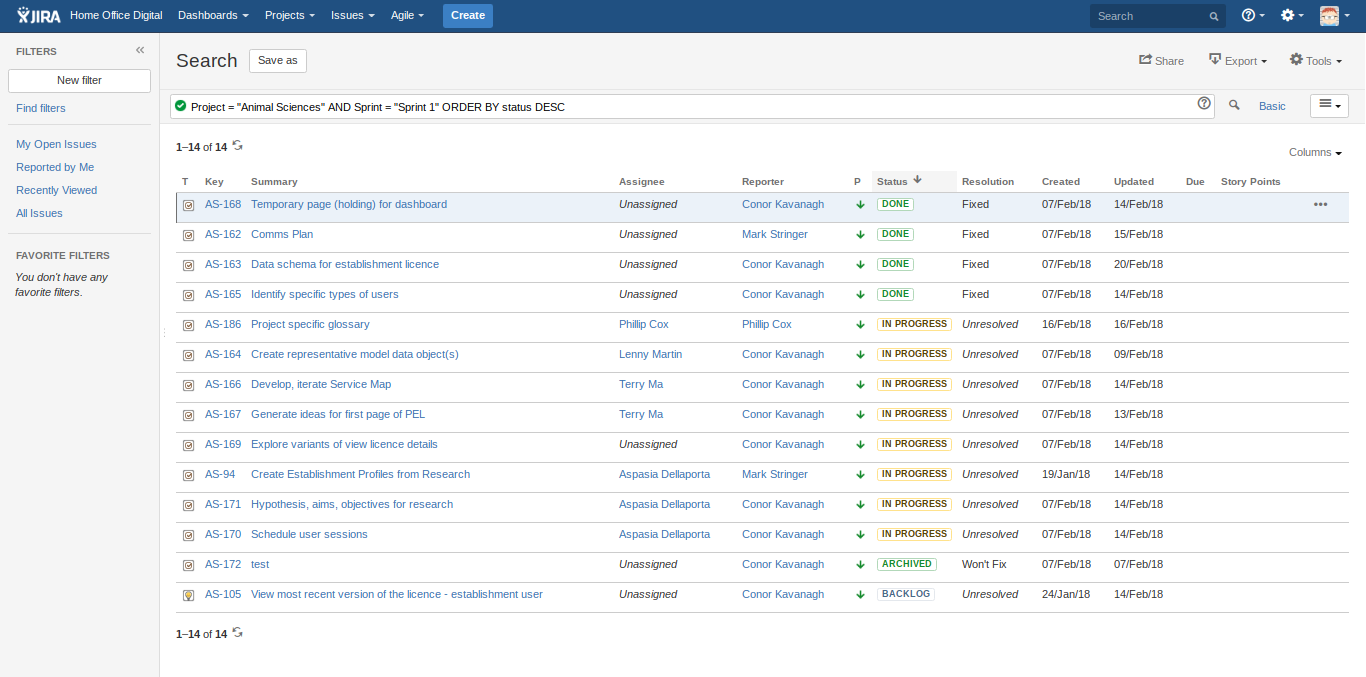
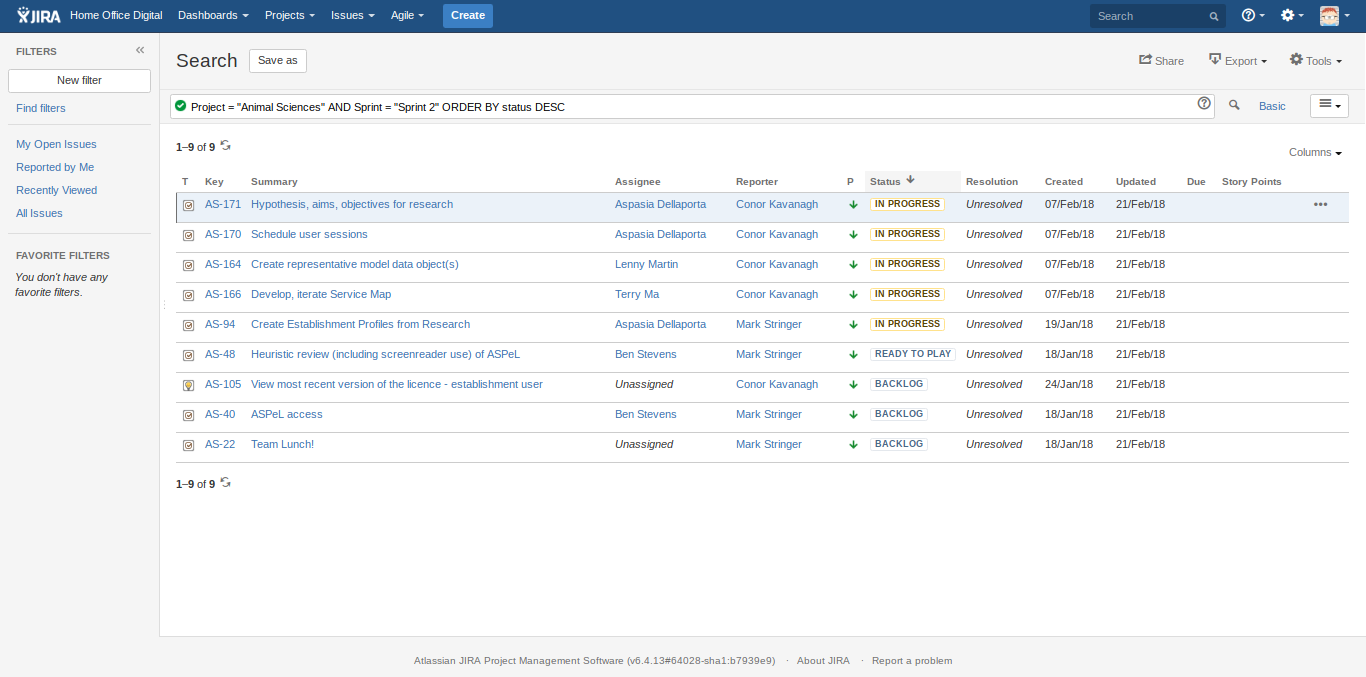
Update to the sprint planning

diff --git a/report21022018.md b/report21022018.md
@@ -5,11 +5,14 @@
 
 # Just Done
 * Data schema for establishment licences
-* Data migration plan for establishment licences
-* Survey has been sent out to HOLCs to provide baseline KPIs - so far X percent of establishments have responded
+* Drafted data migration plan
+* Created proof of concept migration tools to migrate data exports from ASPeL into our databases
+* Survey has been sent out to Establishments to provide baseline KPIs - so far 26% percent of establishments have responded
 
 ## About to Do/Doing
-* Research with selected participants will take place next week
+* Research with selected participants will take place this week and next week
+* Work will continue to build out our data migration prototype
+* We will carry out further research to understand establishment roles and their relationship to training and personal licences
 
 
 ## Things to be aware of
@@ -29,5 +32,5 @@
 ## Sprint Planning
 * We planned the following issues in sprint planning [Link to Issues in Jira](https://jira.digital.homeoffice.gov.uk/secure/RapidBoard.jspa?rapidView=261)    [\(Cached Image\)](graphs/Sprint21022018.png)
 * Our two goals for the sprint are
-	1.  **"Create designs to test with users using realistic dummy data"**
-	2.  **"Front-end connected to mock data"**
+	1.  **"Build out data migration"**
+	2. **"Test View Establishment Licence with Users"**
